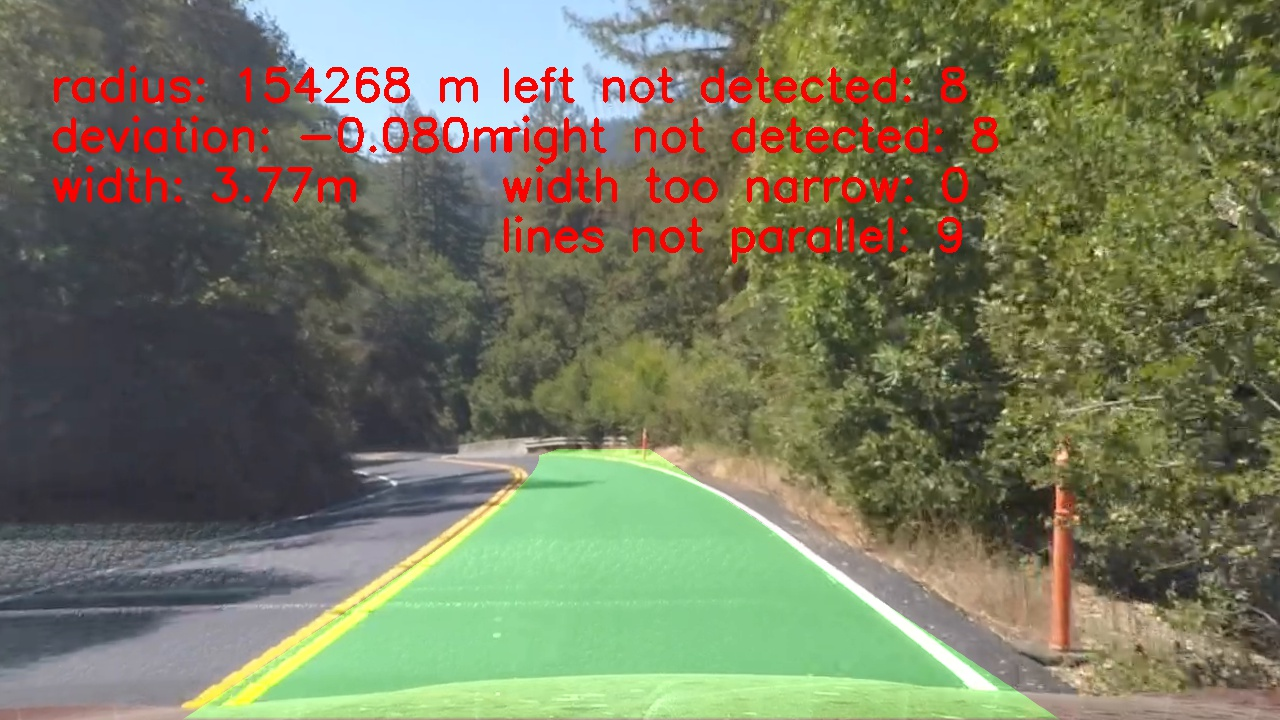
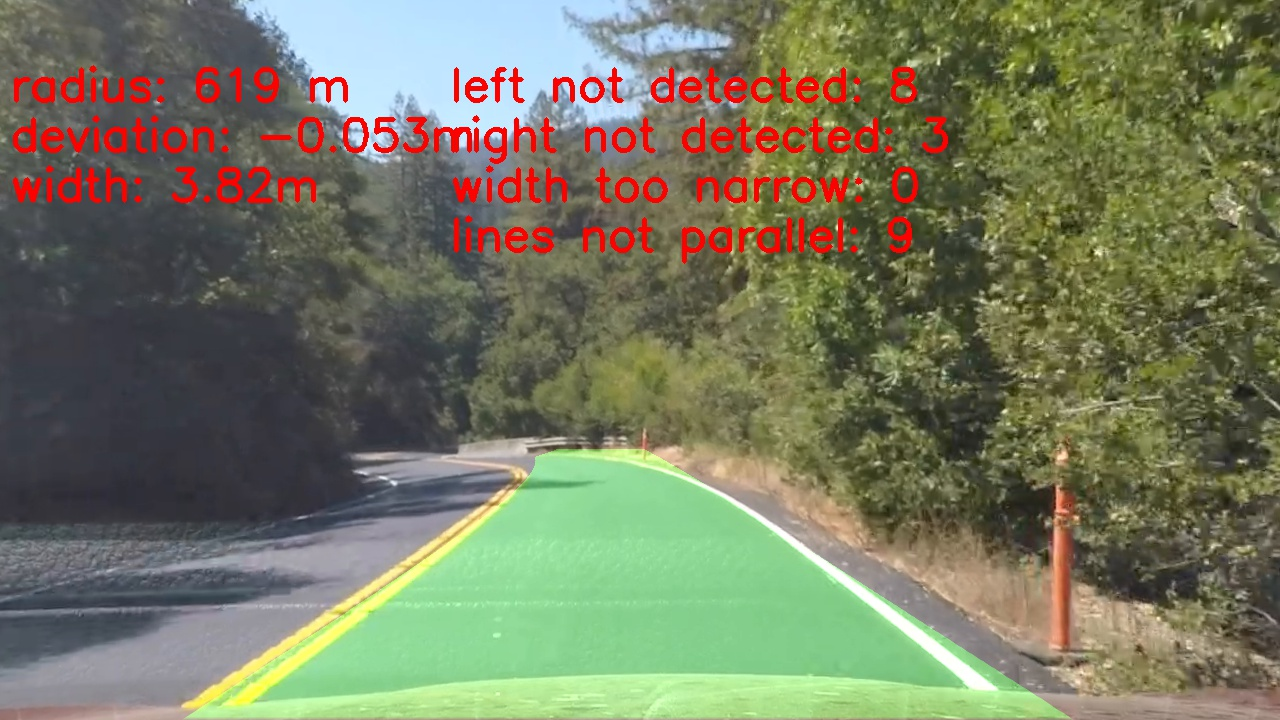
writeup wip

diff --git a/lane.py b/lane.py
@@ -85,7 +85,7 @@ class LaneLine(object):
         for window in range(nwindows):
             # Identify window boundaries in x and y (and right and left)
             win_y_low = LaneImageSpec.height - (window + 1) * window_height
-            win_y_high = LaneImageSpec.width - window * window_height
+            win_y_high = LaneImageSpec.height - window * window_height
             win_x_low = x_current - margin
             win_x_high = x_current + margin
 

diff --git a/lane_find.py b/lane_find.py
@@ -28,7 +28,7 @@ def write_lane_augmentation_video(src_video_file:str, dst_video_file:str):
 
     def process_image(img):
         frame_to_write[0] -= 1
-        write_images = frame_to_write[0] == 0
+        write_images = False # frame_to_write[0] == 0
 
         img_undistorted = img_undistorter.undistort(img)
         if write_images:

diff --git a/writeup.md b/writeup.md
@@ -23,7 +23,7 @@ TODO
 [image-transform-source]: ./output_images/straight_lines1_source.jpg
 [image-transform-result]: ./output_images/straight_lines1_source.jpg
 [image-lane-mask-birdview]: ./output_images/lane_mask_birdview.jpg
-[image-lane-git]: ./output_images/lane_fit.jpg
+[image-lane-fit]: ./output_images/lane_fit.jpg
 [image-augmented]: ./output_images/augmented_image.jpg
 [video-result]: ./project_video_result.mp4 "Video"
 
@@ -66,9 +66,9 @@ A sample result for the distortion correction on a frame from the project video:
 
 #### 2. Describe how (and identify where in your code) you used color transforms, gradients or other methods to create a thresholded binary image.  Provide an example of a binary image result.
 
-The class LaneIsolator in lane_isolator.py implements producing a binary mask image containing the lane pixels.
+The class LaneIsolator in lane_isolator.py implements producing a binary mask image containing the potential lane pixels.
 I used only a filter for white and yellow color.
-TODO
+TODO trial and error of different combinations and color thresholds
 
 ![alt text][image-lase-mask]
 
@@ -87,32 +87,64 @@ of the straight line image shows parallel lane lines:
 
 #### 4. Describe how (and identify where in your code) you identified lane-line pixels and fit their positions with a polynomial?
 
-Then I did some other stuff and fit my lane lines with a 2nd order polynomial kinda like this:
+The classes FittedLane and LaneLine in lane.py implement finding lane pixels and fitting a second order polynomial.
+In function LaneLine.fit(...) a sliding window approach is implemented to determine the lane pixels.
+The x position for the base of a lane line are determined using a histogram on the potential lane pixels.
+The x position of the highest left peak is used as base x position for the left lane. 
+Analogue the right peak for the right lane line. 
+In a window with pixel width 200 and height of image height divided by 9 (number of windows) all potential lane pixels 
+are considered lane pixels. If enough lane pixels are found the new center x position of the next window is realigned
+using the mean x position of the found lane pixels.
+Once all lane pixels have been found, the polynomial is fit to them.
 
-![alt text][image5]
+![alt text][image-lane-fit]
 
 #### 5. Describe how (and identify where in your code) you calculated the radius of curvature of the lane and the position of the vehicle with respect to center.
 
-I did this in lines # through # in my code in `my_other_file.py`
+The curvature radius is computed by LaneLine.lane_radius_meters(). 
+It takes the average of the curvature radius of left and right lane line via LaneLine.curve_radius_meters().
+The curvature radius calculation of a lane line uses the second order polynomial fit in meters.
+I implemented the formula explained here](http://www.intmath.com/applications-differentiation/8-radius-curvature.php).
+I am using the pixel to meters factors for the birdview image from class LaneImageSpec in lane.py.
+
+The deviation from lane center is computed by FittedLane.deviation_from_lane_center_meters().
+The x pixel position of left and lane line is determined using the fit polynomial of the lane lines.
+Then the center of the lane is determine as the middle between left and right lane line.
+The pixel deviation is derived using pixel lane center x and image width divided by 2 for the camera center x position.
+The pixel deviation is then transformed to meters.
 
 #### 6. Provide an example image of your result plotted back down onto the road such that the lane area is identified clearly.
 
-I implemented this step in lines # through # in my code in `yet_another_file.py` in the function `map_lane()`.  Here is an example of my result on a test image:
+Implementation of result plotting is done in class LaneImageAugmenter in file lane_image_augmentation.py.
+I also include the potential lane pixels in the upper right corner and the windows used for finding lane pixels 
+in the lower right corner.
+Example for a frame in the video:
 
-![alt text][image6]
+![alt text][image-augmented]
 
 ---
 
 ### Pipeline (video)
 
-#### 1. Provide a link to your final video output.  Your pipeline should perform reasonably well on the entire project video (wobbly lines are ok but no catastrophic failures that would cause the car to drive off the road!).
+#### 1. Provide a link to your final video output.  
 
-Here's a [link to my video result](./project_video.mp4)
+For the video pipeline I am smoothing the coefficients of the lane line polynomial (see LaneLine.smooth_fit).
+Also I am rejecting a fit polynomial if x positions are more then 5% away from last polynomial 
+(see LaneLine.is_fit_outlier).
+If there are more then 10 rejected fits in a row then the next fit is accepted to recover. 
+Here's a [link to my video result](./project_video_result.mp4)
 
 ---
 
 ### Discussion
 
-#### 1. Briefly discuss any problems / issues you faced in your implementation of this project.  Where will your pipeline likely fail?  What could you do to make it more robust?
+#### 1. Briefly discuss any problems / issues you faced in your implementation of this project.  
+
+TODO Where will your pipeline likely fail?  What could you do to make it more robust?
 
 Here I'll talk about the approach I took, what techniques I used, what worked and why, where the pipeline might fail and how I might improve it if I were going to pursue this project further.  
+
+TBD remove pixel outliers in lane pixel fitting
+TBD use history of window positions for new window positions
+TBD reject inparallel lane lines and lane lines with width smaller than expected (3.7 m)
+TBD tune lane pixel identification using sobel thresholds
